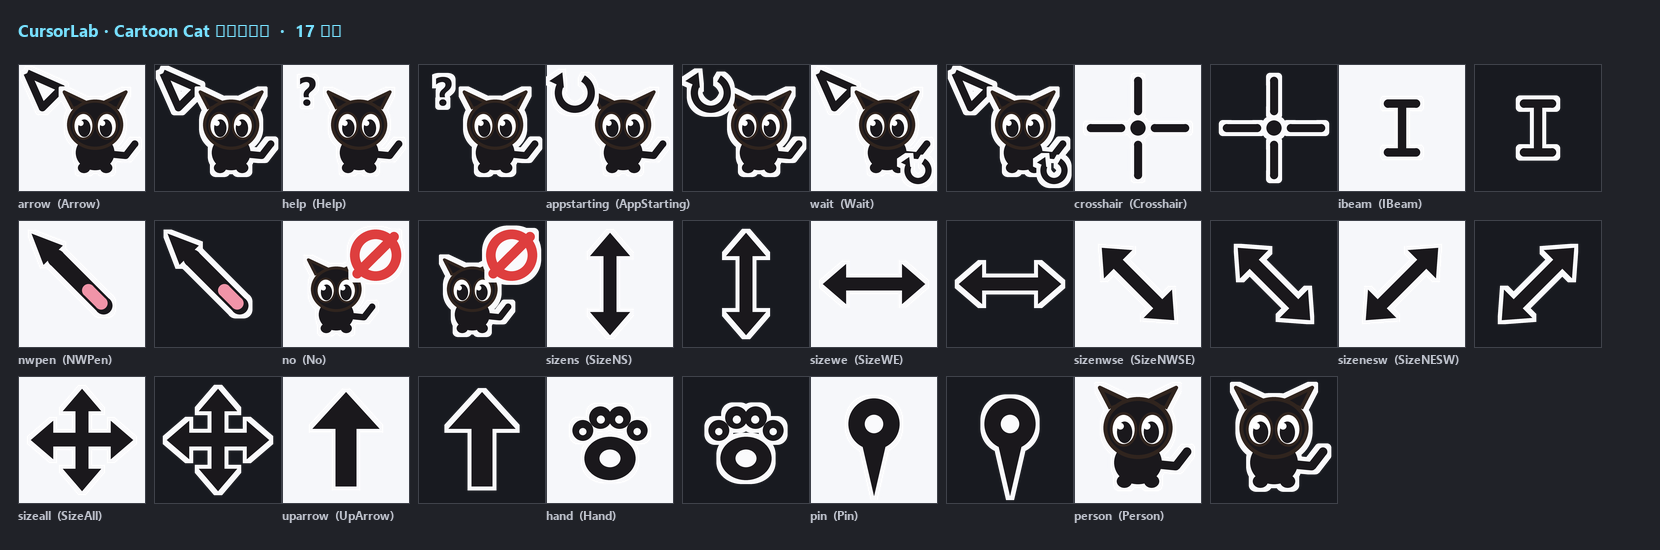
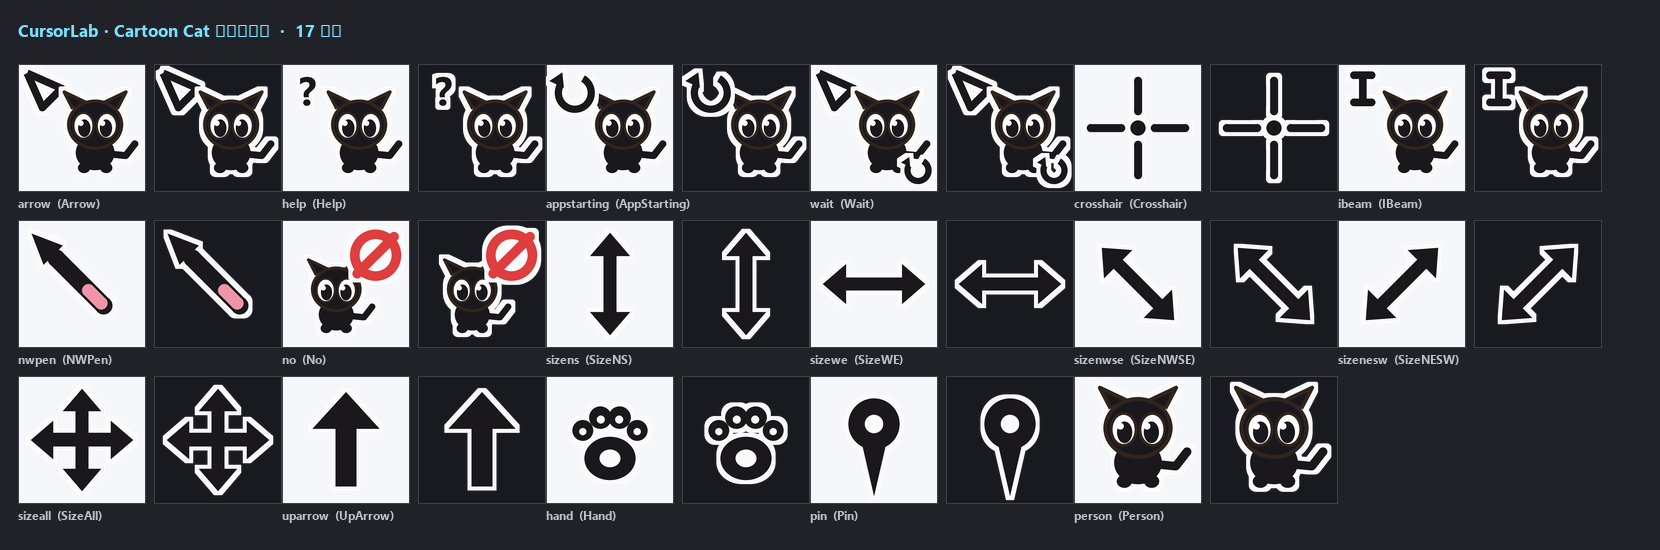
feat(v6.6): I 型并入统一骨架（左上角标小 I + 右下猫）
用户：也改成这种样式，只是将三角形变为 I 型。I 本体 8.7 格、笔画 1.9，热点移到小 I 中心 (6.2,6.2)。至此 17 个角色全部同一骨架。

Changed region(s): [[0.7988, 0.1236, 0.9831, 0.34]]

diff --git a/cursorlab/cartoon.py b/cursorlab/cartoon.py
@@ -158,14 +158,13 @@ def sym_cross(c):
 
 
 def sym_ibeam(c):
-    """I 型：深色本体 14.3 格（杆 9.9→22.1、笔画 2.1），144DPI 实显 21px。
+    """角标位的 I 型（和 ▷ / ？ 同一个槽位），深色本体 8.7 格高。
 
-    尺寸迭代史（深色本体）：36 → 21 → 19 → 16 → 18 → 19 → **21px**。
-    用户："再粗一点、加到 21px"——高度和笔画同时加，但只加这一个角色。
+    之前是居中的大 I；用户要求统一版式：猫仍在右下，左上角标位换成 I。
     """
-    c.line([(16, 9.9), (16, 22.1)], fill=BODY, w=2.1, caps=False)
-    c.line([(12.5, 9.9), (19.5, 9.9)], fill=BODY, w=2.1)
-    c.line([(12.5, 22.1), (19.5, 22.1)], fill=BODY, w=2.1)
+    c.line([(6.2, 2.8), (6.2, 9.6)], fill=BODY, w=1.9, caps=False)
+    c.line([(4.0, 2.8), (8.4, 2.8)], fill=BODY, w=1.9)
+    c.line([(4.0, 9.6), (8.4, 9.6)], fill=BODY, w=1.9)
 
 
 def sym_pen(c):
@@ -287,6 +286,7 @@ def draw_crosshair(c, f=0):
 
 def draw_ibeam(c, f=0):
     stamp(c, layer(c.size, sym_ibeam))
+    stamp(c, layer(c.size, cat, 0.73, 7.6, 6.4))
 
 
 def draw_nwpen(c, f=0):
@@ -347,7 +347,7 @@ SPRITES = {
     "appstarting": dict(fn=draw_appstarting, hot=(16, 16),   frames=8),
     "wait":        dict(fn=draw_wait,        hot=(2.3, 2.3), frames=8),
     "crosshair":   dict(fn=draw_crosshair,   hot=(16, 16),   frames=1),
-    "ibeam":       dict(fn=draw_ibeam,       hot=(16, 16),   frames=1),
+    "ibeam":       dict(fn=draw_ibeam,       hot=(6.2, 6.2), frames=1),
     "nwpen":       dict(fn=draw_nwpen,       hot=(3.4, 3.4), frames=1),
     "no":          dict(fn=draw_no,          hot=(16, 16),   frames=1),
     "sizens":      dict(fn=draw_size_ns,     hot=(16, 16),   frames=1),
